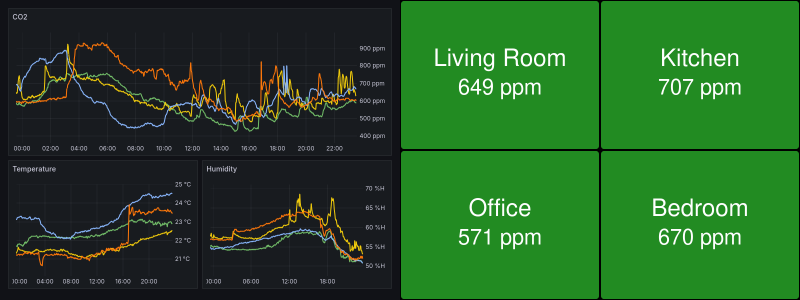
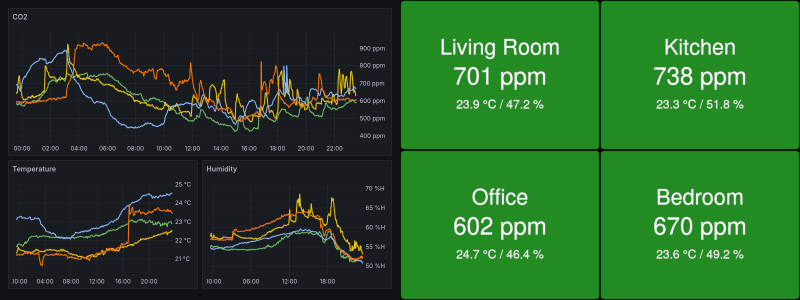
Update hackydash README, screenshots

diff --git a/hackydash/README.md b/hackydash/README.md
@@ -4,6 +4,8 @@ The HTML dashboard shows "traffic light" style panels for each sensor:
 
 ![Screenshot of the HTML dashboard](hackydash.png)
 
+The display of temperature and humidity can be disabled in the config file.
+
 Usage:
 
 1. Copy `config-example.json` to `config.json` and add your sensors.
@@ -11,4 +13,5 @@ Usage:
 1. Serve the files via HTTP.
    (For example, run `python3 -m http.server --bind localhost` and open <http://localhost:8000>.)
 
-Depending on your web browser, you may need to disable HTTPS-Only mode for the dashboard URL, the sensor URLs, or both.
+Depending on your web browser, you may need to disable HTTPS-Only mode for the
+dashboard URL, the sensor URLs, or both.
